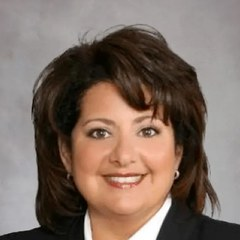
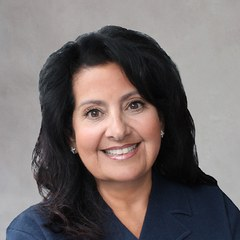
Sharpen circle headshots and update VK's photo
Replace the Industrial Brokerage faces, Hannah Webster and Adam Showalter
in the Strength in Numbers circle with their streamrealty.com headshots,
and use Victoria Knudson's new headshot in the circle and the timeline.

Claude-Session: https://claude.ai/code/session_013rjN9eXsQUGtogBW2y87jx

diff --git a/index.html b/index.html
@@ -117,7 +117,7 @@
                 <ul class="faces">
                   <li><img src="img/faces/patrick-russo.jpg?v=2" alt="" loading="lazy"><span>Patrick Russo</span></li>
                   <li><img src="img/faces/brian-duffy.jpg?v=2" alt="" loading="lazy"><span>Brian Duffy</span></li>
-                  <li><img src="img/faces/victoria-knudson.jpg?v=2" alt="" loading="lazy"><span>Victoria Knudson</span></li>
+                  <li><img src="img/faces/victoria-knudson.jpg?v=3" alt="" loading="lazy"><span>Victoria Knudson</span></li>
                   <li><img src="img/faces/mario-macioce.jpg?v=2" alt="" loading="lazy"><span>Mario Macioce</span></li>
                 </ul>
               </div>
@@ -141,7 +141,7 @@
           </ol>
         </div>
         <figure class="numbers__org">
-          <img src="img/org-circle.jpg?v=4" alt="Stream Chicago platform: Industrial Brokerage, Research &amp; Marketing, Property &amp; Construction Management, Development Services, Investment Management and National Investor Services" width="1800" height="1734" loading="lazy">
+          <img src="img/org-circle.jpg?v=5" alt="Stream Chicago platform: Industrial Brokerage, Research &amp; Marketing, Property &amp; Construction Management, Development Services, Investment Management and National Investor Services" width="1800" height="1734" loading="lazy">
         </figure>
       </div>
       <div class="water-band" aria-hidden="true"></div>
